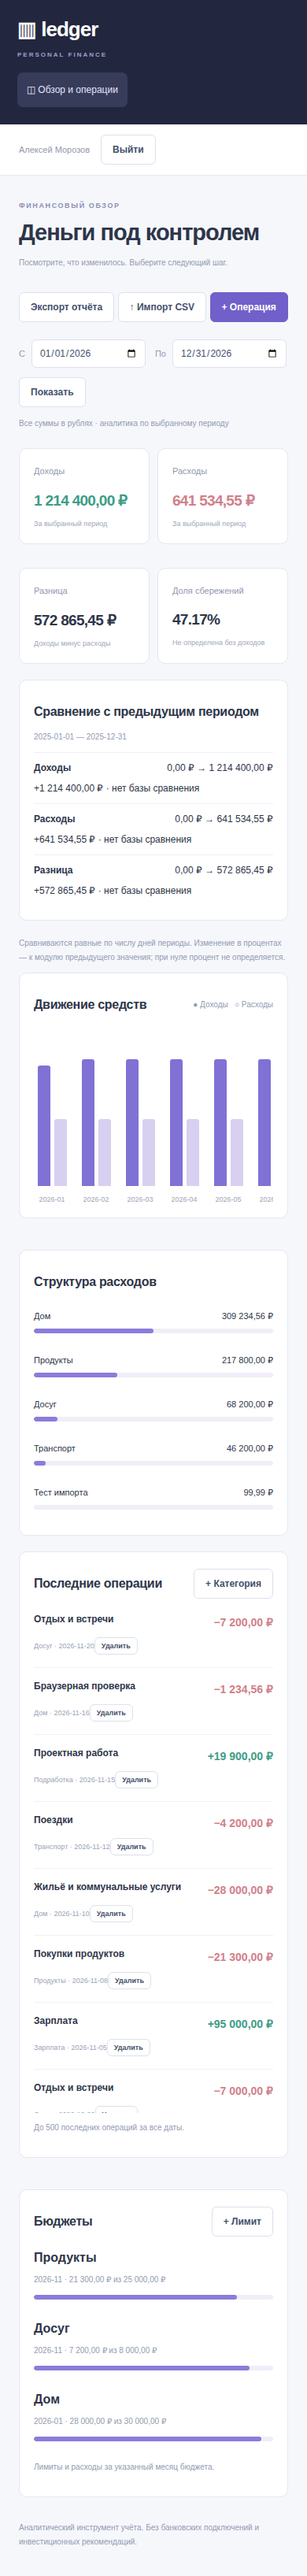
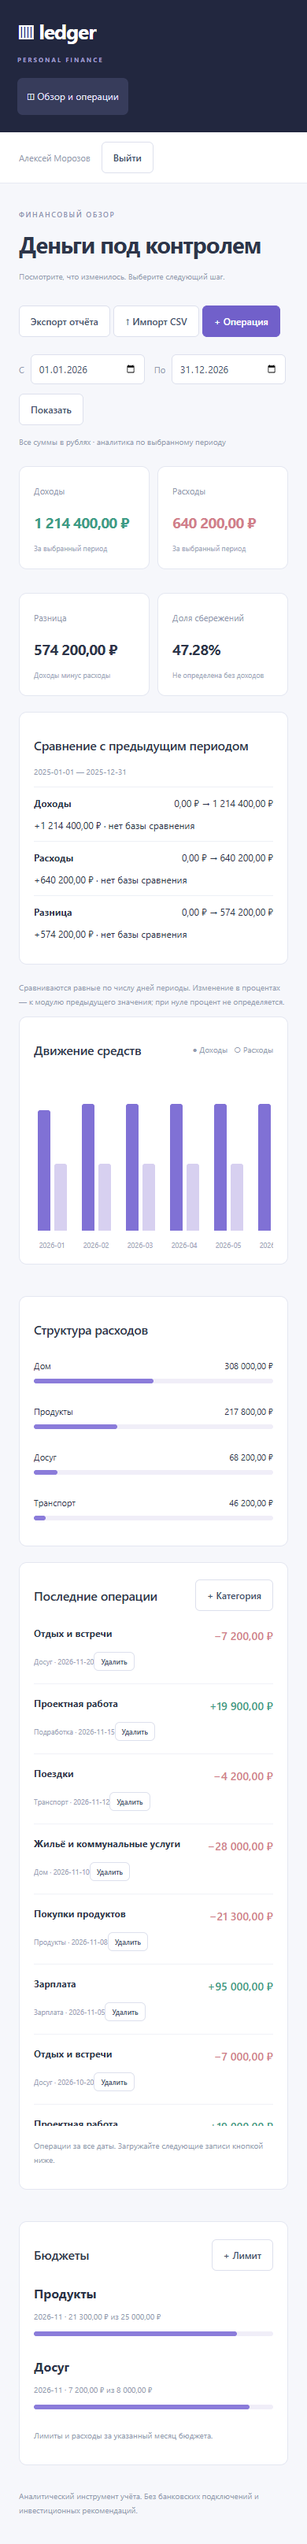
Polish pagination layout copy and reviewed desktop mobile screenshots

Changed region(s): [[0.0, 0.0, 1.0, 0.9904], [0.6769, 0.5262, 0.8923, 0.8666], [0.4615, 0.5881, 0.4923, 0.619]]

diff --git a/public/index.html b/public/index.html
@@ -1,1 +1,1 @@
-<!doctype html><html lang="ru"><head><meta charset="utf-8"><meta name="viewport" content="width=device-width,initial-scale=1"><title>Ledger — финансовая аналитика</title><link rel="stylesheet" href="/style.css"><script type="module" src="/app.js"></script></head><body><aside><a class="brand" href="/">▥ ledger<span>PERSONAL FINANCE</span></a><p class="eyebrow">МОИ ФИНАНСЫ</p><a class="active" href="#dashboard">◫ Обзор и операции</a><p class="aside-note">Python · SQL · FastAPI<br>Самостоятельный проект портфолио</p></aside><main><header><span>Личный кабинет / Аналитика</span><div id="identity"></div></header><div id="notice" role="status"></div><section id="auth"><p class="eyebrow">ЯСНОСТЬ В КАЖДОМ РЕШЕНИИ</p><h1>Ваши финансы.<br>Цельная картина.</h1><p class="muted">Доходы, расходы и привычки — без сложных таблиц.</p><form id="auth-form" class="card auth-card"><h2 id="auth-title">Войти в Ledger</h2><label id="name-label" hidden>Имя<input name="name" maxlength="100"></label><label>Email<input name="email" type="email" required autocomplete="email"></label><label>Пароль<input name="password" type="password" required minlength="12" maxlength="128" autocomplete="current-password"></label><button type="submit" class="primary">Продолжить →</button><button id="register-toggle" type="button">Создать аккаунт</button></form></section><section id="dashboard" hidden><div class="heading"><div><p class="eyebrow">ФИНАНСОВЫЙ ОБЗОР</p><h1>Деньги под контролем</h1><p class="muted">Посмотрите, что изменилось. Выберите следующий шаг.</p></div><div><button id="export-report">Экспорт отчёта</button> <button id="import-button">↑ Импорт CSV</button> <button id="new-transaction" class="primary">+ Операция</button></div></div><form id="period-form" class="period"><label>С<input id="start" type="date" required></label><label>По<input id="end" type="date" required></label><button type="submit">Показать</button><span class="muted">Все суммы в рублях · аналитика по выбранному периоду</span></form><div id="metrics" class="metrics"></div><div id="comparison" class="card" aria-label="Сравнение периодов"></div><p class="muted">Сравниваются равные по числу дней периоды. Изменение в процентах — к модулю предыдущего значения; при нуле процент не определяется.</p><div class="charts"><div class="card"><div class="heading"><h2>Движение средств</h2><small class="muted">● Доходы &nbsp; ○ Расходы</small></div><div id="monthly" class="monthly" aria-label="Доходы и расходы по месяцам"></div></div><div class="card"><h2>Структура расходов</h2><div id="categories-chart"></div></div></div><div class="charts"><div class="card"><div class="heading"><h2>Последние операции</h2><button id="new-category">+ Категория</button></div><div id="transactions"></div><p class="muted">До 500 последних операций за все даты.</p></div><div class="card"><div class="heading"><h2>Бюджеты</h2><button id="new-budget">+ Лимит</button></div><div id="budgets"></div><p class="muted">Лимиты и расходы за указанный месяц бюджета.</p></div></div><p class="muted">Аналитический инструмент учёта. Без банковских подключений и инвестиционных рекомендаций.</p></section></main><dialog id="editor"><form id="edit-form"><div class="heading"><h2 id="editor-title"></h2><button type="button" id="close-editor" aria-label="Закрыть">×</button></div><p id="dialog-error" role="alert"></p><div id="fields"></div><button type="submit" class="primary">Сохранить</button></form></dialog></body></html>
+<!doctype html><html lang="ru"><head><meta charset="utf-8"><meta name="viewport" content="width=device-width,initial-scale=1"><title>Ledger — финансовая аналитика</title><link rel="stylesheet" href="/style.css"><script type="module" src="/app.js"></script></head><body><aside><a class="brand" href="/">▥ ledger<span>PERSONAL FINANCE</span></a><p class="eyebrow">МОИ ФИНАНСЫ</p><a class="active" href="#dashboard">◫ Обзор и операции</a><p class="aside-note">Python · SQL · FastAPI<br>Самостоятельный проект портфолио</p></aside><main><header><span>Личный кабинет / Аналитика</span><div id="identity"></div></header><div id="notice" role="status"></div><section id="auth"><p class="eyebrow">ЯСНОСТЬ В КАЖДОМ РЕШЕНИИ</p><h1>Ваши финансы.<br>Цельная картина.</h1><p class="muted">Доходы, расходы и привычки — без сложных таблиц.</p><form id="auth-form" class="card auth-card"><h2 id="auth-title">Войти в Ledger</h2><label id="name-label" hidden>Имя<input name="name" maxlength="100"></label><label>Email<input name="email" type="email" required autocomplete="email"></label><label>Пароль<input name="password" type="password" required minlength="12" maxlength="128" autocomplete="current-password"></label><button type="submit" class="primary">Продолжить →</button><button id="register-toggle" type="button">Создать аккаунт</button></form></section><section id="dashboard" hidden><div class="heading"><div><p class="eyebrow">ФИНАНСОВЫЙ ОБЗОР</p><h1>Деньги под контролем</h1><p class="muted">Посмотрите, что изменилось. Выберите следующий шаг.</p></div><div><button id="export-report">Экспорт отчёта</button> <button id="import-button">↑ Импорт CSV</button> <button id="new-transaction" class="primary">+ Операция</button></div></div><form id="period-form" class="period"><label>С<input id="start" type="date" required></label><label>По<input id="end" type="date" required></label><button type="submit">Показать</button><span class="muted">Все суммы в рублях · аналитика по выбранному периоду</span></form><div id="metrics" class="metrics"></div><div id="comparison" class="card" aria-label="Сравнение периодов"></div><p class="muted">Сравниваются равные по числу дней периоды. Изменение в процентах — к модулю предыдущего значения; при нуле процент не определяется.</p><div class="charts"><div class="card"><div class="heading"><h2>Движение средств</h2><small class="muted">● Доходы &nbsp; ○ Расходы</small></div><div id="monthly" class="monthly" aria-label="Доходы и расходы по месяцам"></div></div><div class="card"><h2>Структура расходов</h2><div id="categories-chart"></div></div></div><div class="charts"><div class="card"><div class="heading"><h2>Последние операции</h2><button id="new-category">+ Категория</button></div><div id="transactions"></div><div id="transaction-pagination" class="transaction-pagination"></div><p class="muted">Операции за все даты. Загружайте следующие записи кнопкой ниже.</p></div><div class="card"><div class="heading"><h2>Бюджеты</h2><button id="new-budget">+ Лимит</button></div><div id="budgets"></div><p class="muted">Лимиты и расходы за указанный месяц бюджета.</p></div></div><p class="muted">Аналитический инструмент учёта. Без банковских подключений и инвестиционных рекомендаций.</p></section></main><dialog id="editor"><form id="edit-form"><div class="heading"><h2 id="editor-title"></h2><button type="button" id="close-editor" aria-label="Закрыть">×</button></div><p id="dialog-error" role="alert"></p><div id="fields"></div><button type="submit" class="primary">Сохранить</button></form></dialog></body></html>

diff --git a/public/app.js b/public/app.js
@@ -12,7 +12,7 @@ function render(){
  $('comparison').replaceChildren(el('h2','Сравнение с предыдущим периодом'),el('p',comparison.previous_period.start+' — '+comparison.previous_period.end,'muted'));for(const [key,label]of [['income_kopecks','Доходы'],['expense_kopecks','Расходы'],['balance_kopecks','Разница']]){const change=comparison.changes[key],row=el('div',undefined,'heading comparison-row');row.append(el('strong',label),el('span',rub(comparison.previous[key])+' → '+rub(report[key])),el('span',(change.delta_kopecks>0?'+':'')+rub(change.delta_kopecks)+' · '+(change.percent===null?'нет базы сравнения':change.percent+'%')));$('comparison').append(row);}
  $('monthly').replaceChildren();const months=[...new Set(report.monthly.map(r=>r.month))],maximum=Math.max(1,...report.monthly.map(r=>r.amount_kopecks));for(const month of months){const column=el('div',undefined,'month'),bars=el('div',undefined,'month-bars');bars.append(bar(report.monthly.find(r=>r.month===month&&r.kind==='income')?.amount_kopecks||0,maximum),bar(report.monthly.find(r=>r.month===month&&r.kind==='expense')?.amount_kopecks||0,maximum,true));column.append(bars,el('small',month));$('monthly').append(column);}if(!months.length)$('monthly').append(el('p','За период нет операций.','muted'));
  $('categories-chart').replaceChildren();for(const c of report.categories){const row=el('div',undefined,'category-row'),heading=el('div',undefined,'heading'),track=el('div',undefined,'track'),fill=el('div',undefined,'fill');heading.append(el('span',c.category),el('span',rub(c.amount_kopecks)));fill.classList.add('width-'+Math.round(c.amount_kopecks/Math.max(report.expense_kopecks,1)*20));track.append(fill);row.append(heading,track);$('categories-chart').append(row);}
- $('transactions').replaceChildren();for(const t of transactions){const c=categories.find(c=>c.id===t.category_id),row=el('div',undefined,'row'),heading=el('div',undefined,'heading');heading.append(el('strong',t.note||c?.name||'Операция'),el('span',(c?.kind==='income'?'+':'−')+rub(t.amount_kopecks),'amount '+(c?.kind==='income'?'income':'expense')));const remove=el('button','Удалить');remove.onclick=()=>{if(!confirm('Удалить эту операцию?'))return;run(async()=>{await api('/transactions/'+t.id,'DELETE');await refresh();});};row.append(heading,el('small',`${c?.name||'Категория'} · ${t.occurred_on}`),remove);$('transactions').append(row);}if(!transactions.length)$('transactions').append(el('p','Добавьте первую операцию.','muted'));if(moreTransactions){const more=el('button','Показать ещё операции');more.onclick=()=>run(async()=>{const current=version;more.disabled=true;try{const rows=await api('/transactions?limit=50&offset='+transactions.length);if(current!==version)return;transactions.push(...rows);moreTransactions=rows.length===50;render();}finally{more.disabled=false;}});$('transactions').append(more);}
+ $('transaction-pagination').replaceChildren();$('transactions').replaceChildren();for(const t of transactions){const c=categories.find(c=>c.id===t.category_id),row=el('div',undefined,'row'),heading=el('div',undefined,'heading');heading.append(el('strong',t.note||c?.name||'Операция'),el('span',(c?.kind==='income'?'+':'−')+rub(t.amount_kopecks),'amount '+(c?.kind==='income'?'income':'expense')));const remove=el('button','Удалить');remove.onclick=()=>{if(!confirm('Удалить эту операцию?'))return;run(async()=>{await api('/transactions/'+t.id,'DELETE');await refresh();});};row.append(heading,el('small',`${c?.name||'Категория'} · ${t.occurred_on}`),remove);$('transactions').append(row);}if(!transactions.length)$('transactions').append(el('p','Добавьте первую операцию.','muted'));if(moreTransactions){const more=el('button','Показать ещё операции');more.onclick=()=>run(async()=>{const current=version;more.disabled=true;more.textContent='Загрузка…';try{const rows=await api('/transactions?limit=50&offset='+transactions.length);if(current!==version)return;transactions.push(...rows);moreTransactions=rows.length===50;render();}finally{more.disabled=false;more.textContent='Показать ещё операции';}});$('transaction-pagination').append(more);}
  $('budgets').replaceChildren();for(const b of budgets){const c=categories.find(c=>c.id===b.category_id),row=el('div',undefined,'category-row'),track=el('div',undefined,'track'),fill=el('div',undefined,'fill'+(b.spent_kopecks>b.limit_kopecks?' over':''));fill.classList.add('width-'+Math.min(20,Math.round(b.spent_kopecks/b.limit_kopecks*20)));track.append(fill);row.append(el('strong',c?.name||'Категория'),el('p',`${b.month} · ${rub(b.spent_kopecks)} из ${rub(b.limit_kopecks)}`,'muted'),track);$('budgets').append(row);}
 }
 function field(label,name,type='text'){const wrap=el('label',label),input=el(type==='textarea'?'textarea':'input');input.name=name;if(type!=='textarea')input.type=type;input.required=true;wrap.append(input);$('fields').append(wrap);return input;}

diff --git a/public/style.css b/public/style.css
@@ -23,3 +23,5 @@
 .height-20{height:100%}.width-20{width:100%}.charts{grid-template-columns:minmax(0,1.65fr) minmax(0,1fr)}.card{min-width:0}.monthly{max-width:100%;min-width:0}#transactions{max-height:650px;overflow:auto}@media(max-width:950px){.charts{grid-template-columns:minmax(0,1fr)}}@media(max-width:700px){.metric strong{font-size:19px;overflow-wrap:anywhere}}
 
 .comparison-row{flex-wrap:wrap;gap:12px;border-top:1px solid #edf0f6;padding:12px 0;font-size:12px}#comparison{min-width:0}
+
+.transaction-pagination{margin:16px 0}.transaction-pagination button{min-width:200px}.row strong{overflow-wrap:anywhere}

diff --git a/README.md b/README.md
@@ -26,7 +26,7 @@ SQL GROUP BY/SUM/COUNT выполняются в БД, суммы — целые
 
 ## Ограничения
 
-Только RUB, без банковской синхронизации, конвертации валют и инвестиционных рекомендаций. Разница доходов и расходов не означает банковский остаток. Список постранично загружает операции без общего ограничения500, агрегаты охватывают весь выбранный период. Отчёт не гарантирует единый снимок при конкурентных изменениях между SQL-запросами. Нет восстановления пароля, общего распределённого limiter и подтверждённых нагрузочных гарантий. Аварийное восстановление и production-эксплуатация не считаются проверенными.
+Только RUB, без банковской синхронизации, конвертации валют и инвестиционных рекомендаций. Разница доходов и расходов не означает банковский остаток. Список постранично загружает операции без общего ограничения числа записей, агрегаты охватывают весь выбранный период. Отчёт не гарантирует единый снимок при конкурентных изменениях между SQL-запросами. Нет восстановления пароля, общего распределённого limiter и подтверждённых нагрузочных гарантий. Аварийное восстановление и production-эксплуатация не считаются проверенными.
 
 [Архитектура](docs/ARCHITECTURE.md) · [REST API](docs/API.md) · [Отчёты](docs/REPORTS.md) · [Миграции](docs/MIGRATIONS.md) · [Другие проекты](docs/PORTFOLIO.md)
 
@@ -41,6 +41,14 @@ SQL GROUP BY/SUM/COUNT выполняются в БД, суммы — целые
 [Видеодемонстрация и обзорные кадры](docs/demo/README.md).
 
 
-## List pagination
+## Загрузка списков
 
-GET list endpoints accept limit (1..100, default50) and offset (0..10000000). Responses remain JSON arrays with X-Total-Count scoped to the signed-in owner; CRM deal totals also respect stage. Stable order: descending ID for CRM; occurred_on descending, ID descending for Ledger. UI loads50 at a time with Show more. Aggregates still cover all records. Offset pagination is not a snapshot: concurrent inserts/deletes can shift pages. Refresh resets the loaded list.
+Параметры REST API: `limit` от 1 до 100 (по умолчанию 50), `offset` от 0 до 10000000. Ответ — массив записей; `X-Total-Count` содержит общее число записей текущего пользователя. Интерфейс загружает по 50 записей кнопкой «Показать ещё». Агрегаты учитывают все данные.
+
+Операции отсортированы по убыванию даты, затем ID. Выбор периода меняет отчёт, а список операций показывает все даты.
+
+При параллельных вставках или удалениях offset-страницы могут сдвигаться. Обновление страницы начинает загрузку заново.
+
+## Проверка интерфейса
+
+Проверены ширины 320, 390, 768 и 1440 px в headless Chrome. Кнопка дозагрузки вынесена из прокручиваемого списка операций. Данные на скриншотах вымышлены.
